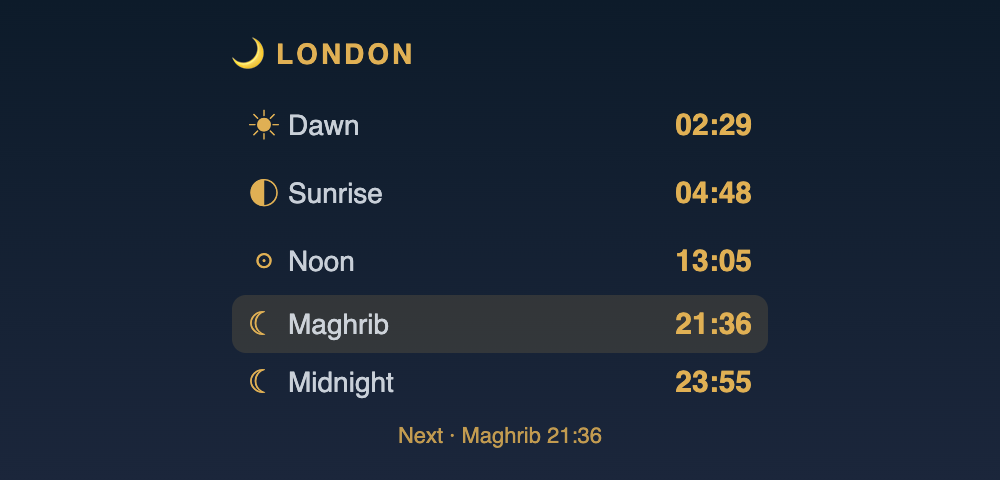
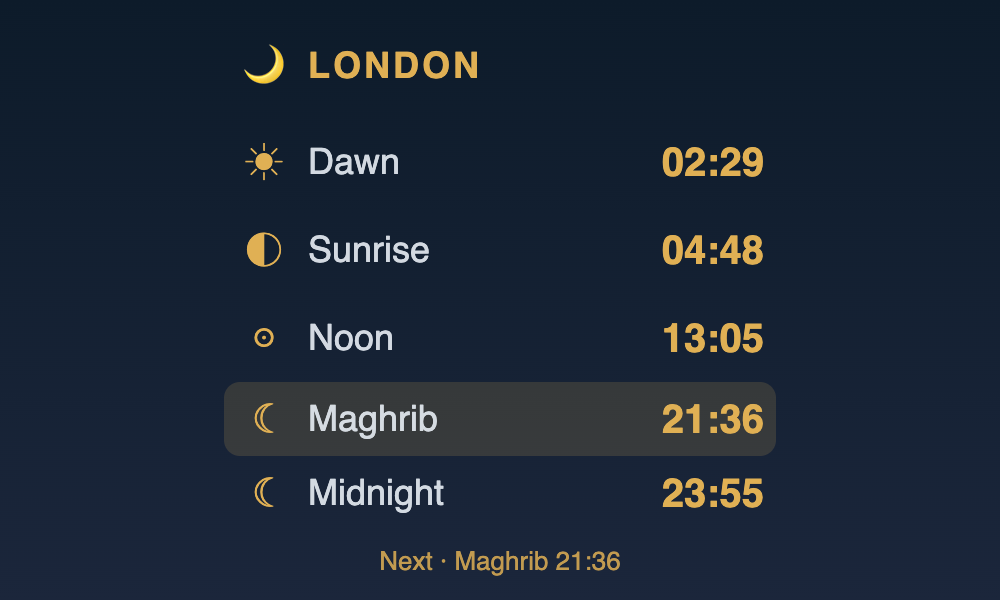
fix(homey): align header with rows, larger fonts, Size setting
- Shared .line column grid so the moon aligns with the prayer glyphs and the
  city aligns with the names (same class of fix as Android)
- Larger, more readable fonts
- New 'Size' widget setting (Regular/Large/Extra large) that grows the widget
  vertically via Homey.ready({height})
- Refreshed rendered preview (aligned + larger); synced to Homey + Android + README
- Installed on Seyed's Homey Pro via CLI

Claude-Session: https://claude.ai/code/session_01FJwC4Lbgc6BNfVuHrSRdia

diff --git a/homey/widgets/prayer-times/public/index.html b/homey/widgets/prayer-times/public/index.html
@@ -6,26 +6,43 @@
   :root { --gold:#e0b054; --label:#e8eef5; }
   html, body { margin:0; padding:0; }
   #card {
-    box-sizing:border-box; height:100vh; padding:14px 16px;
+    box-sizing:border-box; min-height:100vh; padding:14px 14px;
     background:linear-gradient(180deg,#0d1b2a 0%,#1b263b 100%);
     font-family:-apple-system,Roboto,"Segoe UI",sans-serif; color:var(--label);
-    border-radius:14px; display:flex; flex-direction:column;
+    border-radius:14px; display:flex; flex-direction:column; justify-content:center;
   }
-  #head { display:flex; align-items:center; gap:6px; margin-bottom:8px; }
-  #city { color:var(--gold); font-weight:600; font-size:14px; letter-spacing:1.5px; }
-  #stale { color:var(--gold); opacity:.4; display:none; }
-  .row { display:flex; align-items:center; padding:5px 8px; border-radius:7px; }
-  .row.next { background:rgba(224,176,84,.14); }
-  .glyph { color:var(--gold); width:20px; }
-  .name { flex:1; font-size:14px; opacity:.85; }
-  .time { color:var(--gold); font-weight:600; font-size:15px; font-variant-numeric:tabular-nums; }
-  #next { text-align:center; color:var(--gold); opacity:.85; font-size:11px; margin-top:6px; }
-  #err { text-align:center; opacity:.7; font-size:13px; margin-top:20px; display:none; }
+  /* Shared column grid: header and every row use .line so glyph/name/time align */
+  .line { display:flex; align-items:center; padding:5px 6px; border-radius:8px; }
+  .line.next { background:rgba(224,176,84,.16); }
+  .glyph { flex:0 0 28px; text-align:center; color:var(--gold); }
+  .name { flex:1; padding-left:8px; opacity:.9; }
+  .time { color:var(--gold); font-weight:700; font-variant-numeric:tabular-nums; }
+  #head { margin-bottom:6px; }
+  #city { color:var(--gold); font-weight:700; letter-spacing:1.5px; opacity:1; }
+  #stale { flex:0 0 auto; color:var(--gold); opacity:.4; display:none; padding-left:6px; }
+  #next { text-align:center; color:var(--gold); opacity:.85; margin-top:8px; }
+  #err { text-align:center; opacity:.7; margin-top:20px; display:none; }
+
+  /* Size scales (chosen in the widget settings) */
+  #card.s-regular .glyph { font-size:17px; } #card.s-regular .name, #card.s-regular #city { font-size:15px; }
+  #card.s-regular .time { font-size:16px; } #card.s-regular #next { font-size:12px; }
+
+  #card.s-large .glyph { font-size:20px; } #card.s-large .name, #card.s-large #city { font-size:18px; }
+  #card.s-large .time { font-size:20px; } #card.s-large #next { font-size:13px; }
+  #card.s-large .line { padding:7px 6px; }
+
+  #card.s-xlarge .glyph { font-size:23px; } #card.s-xlarge .name, #card.s-xlarge #city { font-size:21px; }
+  #card.s-xlarge .time { font-size:24px; } #card.s-xlarge #next { font-size:15px; }
+  #card.s-xlarge .line { padding:9px 6px; }
 </style>
 </head>
 <body>
-<div id="card">
-  <div id="head"><span>🌙</span><span id="city">—</span><span id="stale">•</span></div>
+<div id="card" class="s-regular">
+  <div id="head" class="line">
+    <span class="glyph">🌙</span>
+    <span id="city" class="name">—</span>
+    <span id="stale">•</span>
+  </div>
   <div id="rows"></div>
   <div id="next"></div>
   <div id="err">Prayer times unavailable</div>
@@ -33,6 +50,11 @@
 <script type="text/javascript">
   const GLYPH = { Dawn:"☀", Sunrise:"◐", Noon:"☉", Maghrib:"☾", Midnight:"☾" };
   const ORDER = [["Dawn","dawn"],["Sunrise","sunrise"],["Noon","noon"],["Maghrib","maghrib"],["Midnight","midnight"]];
+  const SIZES = {
+    regular: { cls:"s-regular", height:260 },
+    large:   { cls:"s-large",   height:330 },
+    xlarge:  { cls:"s-xlarge",  height:410 },
+  };
   let currentCity = "London";
 
   function render(d) {
@@ -43,7 +65,7 @@
     rows.innerHTML = "";
     for (const [name, key] of ORDER) {
       const r = document.createElement("div");
-      r.className = "row" + (name === d.next.name ? " next" : "");
+      r.className = "line" + (name === d.next.name ? " next" : "");
       r.innerHTML = '<span class="glyph">' + GLYPH[name] + '</span>' +
         '<span class="name">' + name + '</span>' +
         '<span class="time">' + d[key] + '</span>';
@@ -63,15 +85,17 @@
   }
 
   function onHomeyReady(Homey) {
-    const s = Homey.getSettings();
-    currentCity = (s && s.city) || "London";
+    const s = Homey.getSettings() || {};
+    currentCity = s.city || "London";
+    const sz = SIZES[s.size] || SIZES.regular;
+    document.getElementById("card").className = sz.cls;
     load(Homey);
     // realtime push from the always-running backend (daily rollover / hourly tick)
     Homey.on("prayertimes:update", (d) => { if (d && d.city === currentCity) render(d); });
     // belt-and-suspenders while the dashboard is visible
     setInterval(() => load(Homey), 30 * 60 * 1000);
     document.addEventListener("visibilitychange", () => { if (!document.hidden) load(Homey); });
-    Homey.ready({ height: 240 });
+    Homey.ready({ height: sz.height });
   }
 </script>
 </body>

diff --git a/README.md b/README.md
@@ -138,7 +138,8 @@ homey app install               # builds + installs onto your Homey Pro
 ```
 
 Then on your Homey **dashboard**: add a widget → **Prayer Times** → open its settings
-→ pick a **City**.
+→ pick a **City** and a **Size** (Regular / Large / Extra large — the larger sizes grow
+the widget vertically for easier reading).
 
 > **Daily auto‑update without touching the screen.** The app backend refreshes on its
 > own (hourly + a precise 00:05 London rollover) and *pushes* new times to the widget,